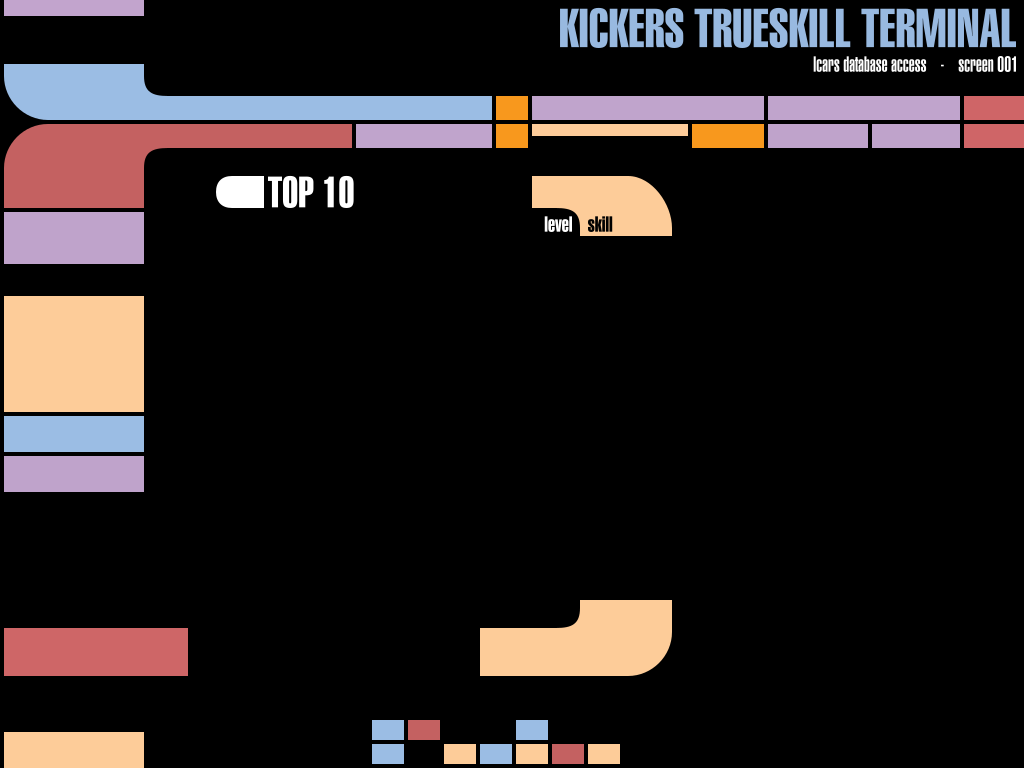
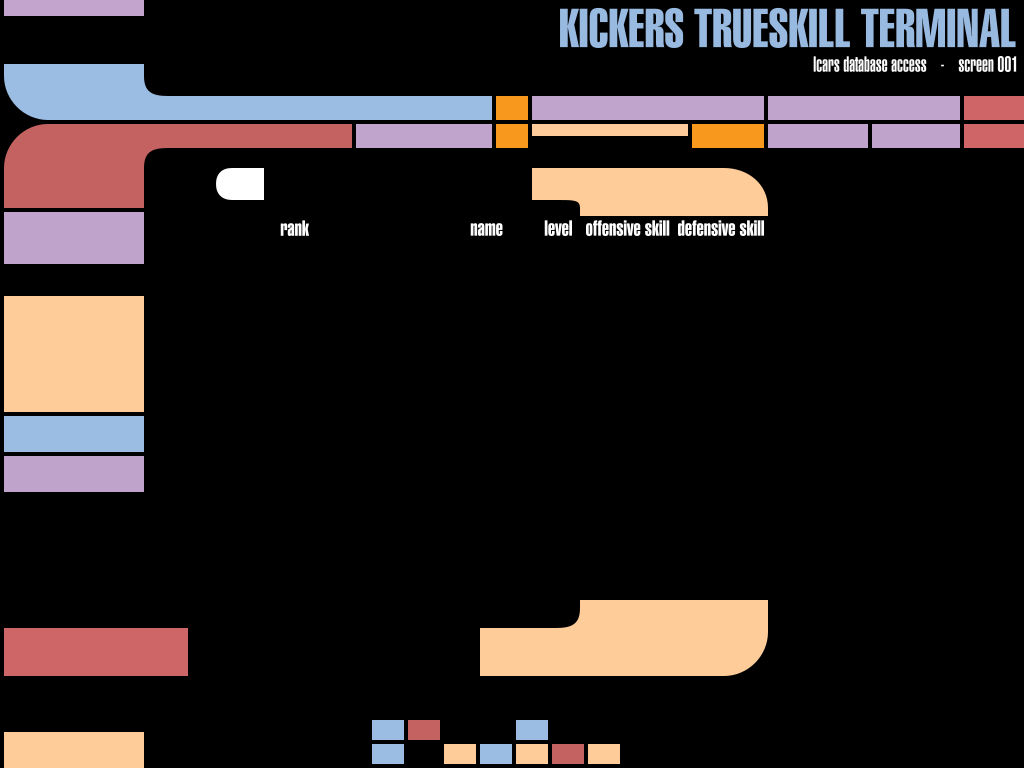
main screen support for split skills

diff --git a/app/screens/main.py b/app/screens/main.py
@@ -10,17 +10,20 @@ import shelve
 import trueskill
 import math
 import subprocess
-
+from odds import win_probability
 from datasources.network import get_ip_address_string
 
 
+def playerLevel(player):
+    return trueskill.expose(player[0]) + trueskill.expose(player[1])
+    
 def findRank(players, player):
-    ranked = sorted(players.items(), key=lambda kv:trueskill.expose(kv[1]), reverse=True)
+    ranked = sorted(players.items(), key=lambda kv:playerLevel(kv[1]), reverse=True)
     minindex = len(ranked)
     maxindex = 0
     i = 1
     for name,skill in ranked:
-        if round(trueskill.expose(players[player])) == round(trueskill.expose(skill)): # since we only display rounded skill it is only fair to group by whole numbers
+        if round(playerLevel(players[player])) == round(playerLevel(skill)): # since we only display rounded skill it is only fair to group by whole numbers
             minindex = min(minindex, i)
             maxindex = max(maxindex, i)
         i += 1
@@ -38,7 +41,7 @@ class ScreenMain(LcarsScreen):
         all_sprites.add(LcarsBackgroundImage("assets/bg_main.png"), layer=0)
 
         
-        self.title = LcarsTitle(colours.WHITE, (768-560-32, 268), 260, "")
+        self.title = LcarsTitle(colours.WHITE, (768-568-32, 268), 260, "")
         all_sprites.add(self.title)
         
         # interface buttons
@@ -54,7 +57,8 @@ class ScreenMain(LcarsScreen):
         self.namebuttons = []
         self.ranklabels = []
         self.levellabels = []
-        self.skilllabels = []
+        self.offenselabels = []
+        self.defenselabels = []
         colour = (0,0,0)
         for i in range(10):
             # label and rounded stub for rank
@@ -66,9 +70,12 @@ class ScreenMain(LcarsScreen):
             # player level
             self.levellabels.append(LcarsButton2(colour, (508, 496-36*i), (68,32), '', None))
             all_sprites.add(self.levellabels[-1])
-            # sigma field
-            self.skilllabels.append(LcarsButton2(colour, (580, 496-36*i), (92,32), '', None))
-            all_sprites.add(self.skilllabels[-1])
+            # offensive field
+            self.offenselabels.append(LcarsButton2(colour, (580, 496-36*i), (92,32), '', None))
+            all_sprites.add(self.offenselabels[-1])
+            # defensive
+            self.defenselabels.append(LcarsButton2(colour, (676, 496-36*i), (92,32), '', None))
+            all_sprites.add(self.defenselabels[-1])
 
         
         self.page = 0
@@ -85,7 +92,7 @@ class ScreenMain(LcarsScreen):
         self.beep1 = Sound("assets/audio/panel/201.wav")
         Sound("assets/audio/panel/220.wav").play()
 
-
+        
     def updateRanking(self):
         if self.page == 0:
             self.title.setText("TOP 10")
@@ -93,7 +100,7 @@ class ScreenMain(LcarsScreen):
             self.title.setText("TOP {}-{}".format(self.page*10, self.page*10+9))
             
         players = shelve.open('playerdb')
-        ranked = sorted(players.items(), key=lambda kv:trueskill.expose(kv[1]), reverse=True)
+        ranked = sorted(players.items(), key=lambda kv:playerLevel(kv[1]), reverse=True)
         # user buttons:
         colorindex = 0
         prevrank = ""
@@ -104,7 +111,7 @@ class ScreenMain(LcarsScreen):
                 rank = findRank(players, name)
             else:
                 name = ''
-                rating = trueskill.Rating()
+                rating = (trueskill.Rating(), trueskill.Rating())
                 rank = '-'
                 
             if rank != prevrank:
@@ -119,13 +126,16 @@ class ScreenMain(LcarsScreen):
             self.namebuttons[i % 10].setText(capwords(name))
             self.namebuttons[i % 10].setColor(colour)
 
-            level = str(round(trueskill.expose(rating))) if i < len(ranked) else ''
+            level = str(round(playerLevel(rating))) if i < len(ranked) else ''
             self.levellabels[i % 10].setText(level)
             self.levellabels[i % 10].setColor(colour)
 
-            skill = "{:.2f}/{:.2f}".format(rating.mu, rating.sigma) if i < len(ranked) else ''
-            self.skilllabels[i % 10].setText(skill)
-            self.skilllabels[i % 10].setColor(colour)
+            offense = "{:.2f}/{:.2f}".format(rating[0].mu, rating[0].sigma) if i < len(ranked) else ''
+            defense = "{:.2f}/{:.2f}".format(rating[1].mu, rating[1].sigma) if i < len(ranked) else ''
+            self.offenselabels[i % 10].setText(offense)
+            self.defenselabels[i % 10].setText(defense)
+            self.offenselabels[i % 10].setColor(colour)
+            self.defenselabels[i % 10].setColor(colour)
 
         players.close()
         

diff --git a/app/dbmigration.py b/app/dbmigration.py
@@ -1,0 +1,8 @@
+#!/bin/env python3
+import trueskill
+import shelve
+
+playerdb = shelve.open('playerdb')
+for p in playerdb:
+    playerdb[p] = (playerdb[p], playerdb[p])
+playerdb.close()
